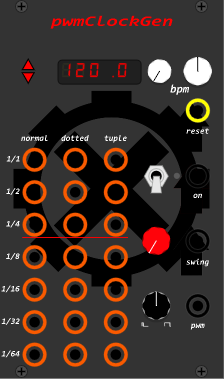
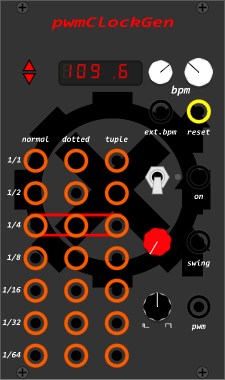
pwmclock ext bpm

diff --git a/src/pwmClock.cpp b/src/pwmClock.cpp
@@ -1,5 +1,7 @@
 #include "pwmClock.hpp"
 
+#define BPM_MINVALUE (10)
+#define BPM_MAXVALUE (300)
 #define PWM_MINVALUE (0.05)
 #define PWM_MAXVALUE (0.95)
 #define SWING_MINVALUE (0.0)
@@ -26,11 +28,44 @@ void PwmClock::load()
 	updateBpm();
 }
 
+void PwmClock::updateBpm()
+{
+	bool updated = false;
+	float new_bpm;
+	if(inputs[EXT_BPM].active)
+		new_bpm = rescale(inputs[EXT_BPM].value, LVL_OFF, LVL_ON, BPM_MINVALUE, BPM_MAXVALUE);
+	else
+		new_bpm = (roundf(params[BPMDEC].value) + 10 * bpm_integer) / 10.0;
+
+	if(bpm != new_bpm)
+	{
+		updated = true;
+		bpm = new_bpm;
+		duration[0] = 240.0 / bpm;	// 1/1
+		duration[1] = duration[0] + duration[0] / 2.0;
+		duration[2] = 2.0* duration[0] / 3.0;
+
+		for(int k = 1; k < 7; k++)
+		{
+			duration[3 * k] = duration[3 * (k - 1)] / 2.0;
+			duration[3 * k + 1] = duration[3 * (k - 1) + 1] / 2.0;
+			duration[3 * k + 2] = duration[3 * (k - 1) + 2] / 2.0;
+		}
+	}
+	float new_swing = getSwing();
+	if(updated || new_swing != swing)
+	{
+		swing = new_swing;
+		for(int k = 0; k < OUT_SOCKETS; k++)
+			swingAmt[k] = duration[k] + duration[k] * swing;
+	}
+}
+
 void PwmClock::process_keys()
 {
 	if(btnup.process(params[BPM_INC].value))
 	{
-		if(bpm_integer < 220.0)
+		if(bpm_integer < BPM_MAXVALUE)
 			bpm_integer += 1;
 		pWidget->SetBpm(bpm_integer);
 	}
@@ -124,9 +159,10 @@ PwmClockWidget::PwmClockWidget(PwmClock *module) : SequencerWidget(module)
 	ParamWidget *pw = ParamWidget::create<Davies1900hFixWhiteKnobSmall>(Vec(mm2px(50.364), yncscape(100.245, 8)), module, PwmClock::BPMDEC, 0.0, 9.0, 0.0);
 	((Davies1900hKnob *)pw)->snap = true;
 	addParam(pw);
-	pw = ParamWidget::create<Davies1900hFixWhiteKnob>(Vec(mm2px(62.528), yncscape(99.483, 9.525)), module, PwmClock::BPM, 20.0, 220.0, 120.0);
+	pw = ParamWidget::create<Davies1900hFixWhiteKnob>(Vec(mm2px(62.528), yncscape(99.483, 9.525)), module, PwmClock::BPM, BPM_MINVALUE, BPM_MAXVALUE, 120.0);
 	((Davies1900hKnob *)pw)->snap = true;
 	addParam(pw);
+	addInput(Port::create<PJ301BPort>(Vec(mm2px(50.326), yncscape(86.857, 8.255)), Port::INPUT, module, PwmClock::EXT_BPM));
 	addInput(Port::create<PJ301YPort>(Vec(mm2px(63.162), yncscape(86.857, 8.255)), Port::INPUT, module, PwmClock::RESET));
 
 	addParam(ParamWidget::create<NKK2>(Vec(mm2px(49.040), yncscape(64.997, 9.488)), module, PwmClock::OFFON, 0.0, 1.0, 0.0));

diff --git a/src/pwmClock.hpp b/src/pwmClock.hpp
@@ -83,6 +83,7 @@ struct PwmClock : Module
 	enum InputIds
 	{
 		RESET,
+		EXT_BPM,
 		PWM_IN,
 		SWING_IN,
 		OFFON_IN,
@@ -144,33 +145,8 @@ private:
 	SchmittTrigger2 resetTrigger;
 
 	void process_keys();
-	void updateBpm()
-	{
-		bool updated = false;
-		float new_bpm = (roundf(params[BPMDEC].value) + 10 * bpm_integer) / 10.0;
-		if(bpm != new_bpm)
-		{
-			updated = true;
-			bpm = new_bpm;
-			duration[0] = 240.0 / bpm;	// 1/1
-			duration[1] = duration[0] + duration[0] / 2.0;
-			duration[2] = 2.0* duration[0] / 3.0;
-
-			for(int k = 1; k < 7; k++)
-			{
-				duration[3 * k] = duration[3 * (k - 1)] / 2.0;
-				duration[3 * k + 1] = duration[3 * (k - 1) + 1] / 2.0;
-				duration[3 * k + 2] = duration[3 * (k - 1) + 2] / 2.0;
-			}
-		}
-		float new_swing = getSwing();
-		if(updated || new_swing != swing)
-		{
-			swing = new_swing;
-			for(int k = 0; k < OUT_SOCKETS; k++)
-				swingAmt[k] = duration[k] + duration[k] * swing;
-		}
-	}
+	void updateBpm();
+	
 	float getDuration(int n)
 	{
 		return odd_beat[n] ? swingAmt[n] : duration[n];
